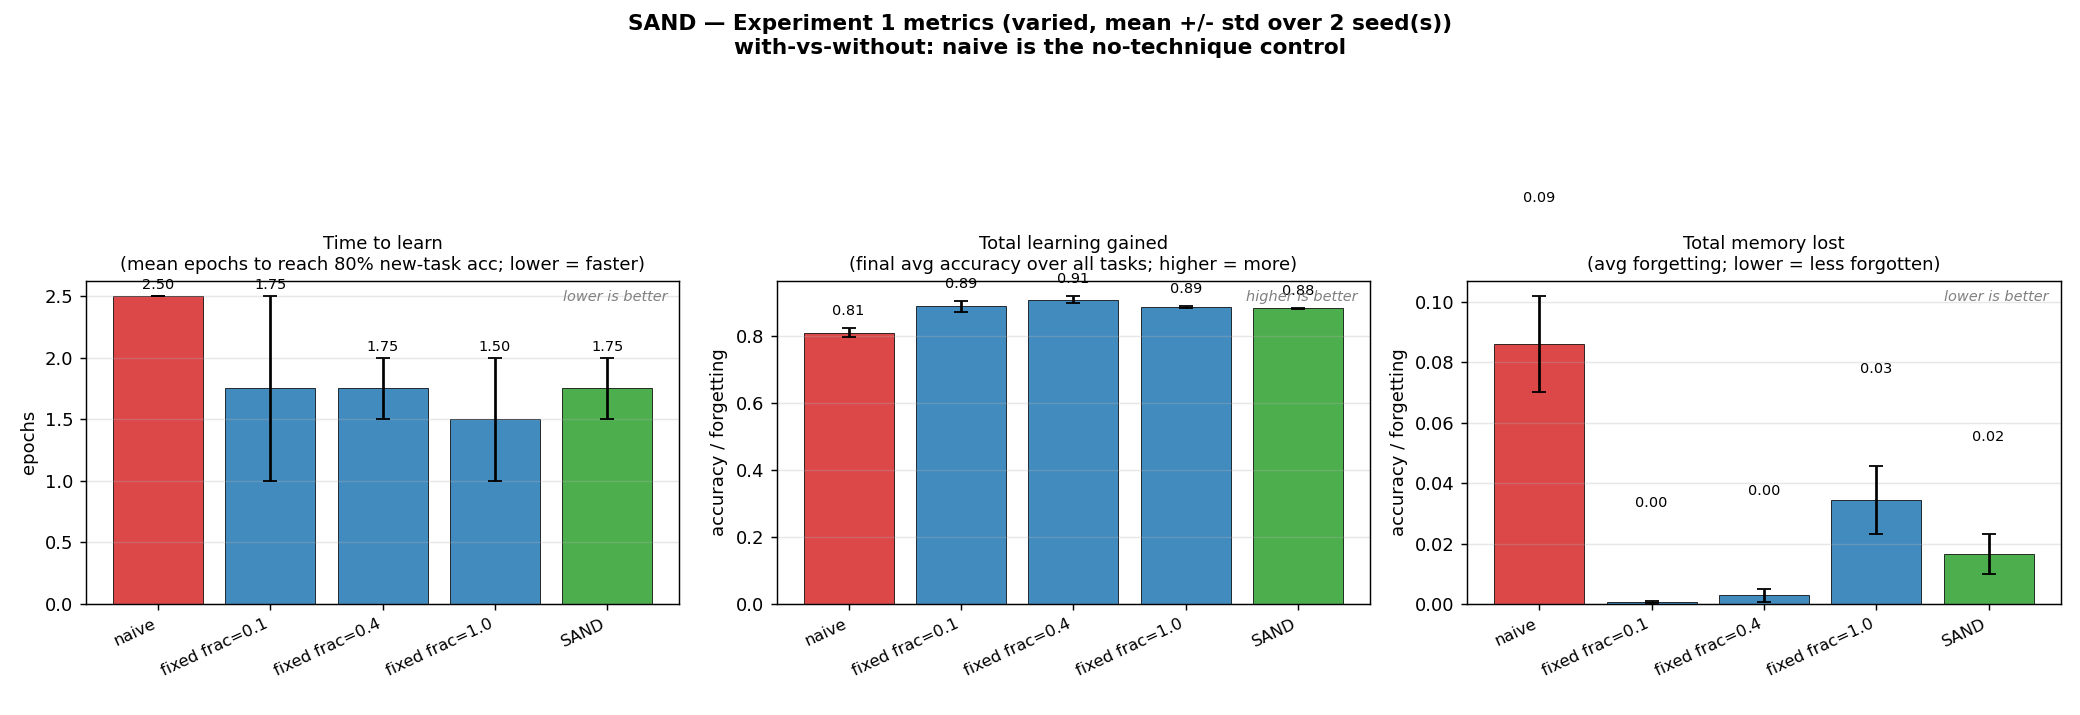
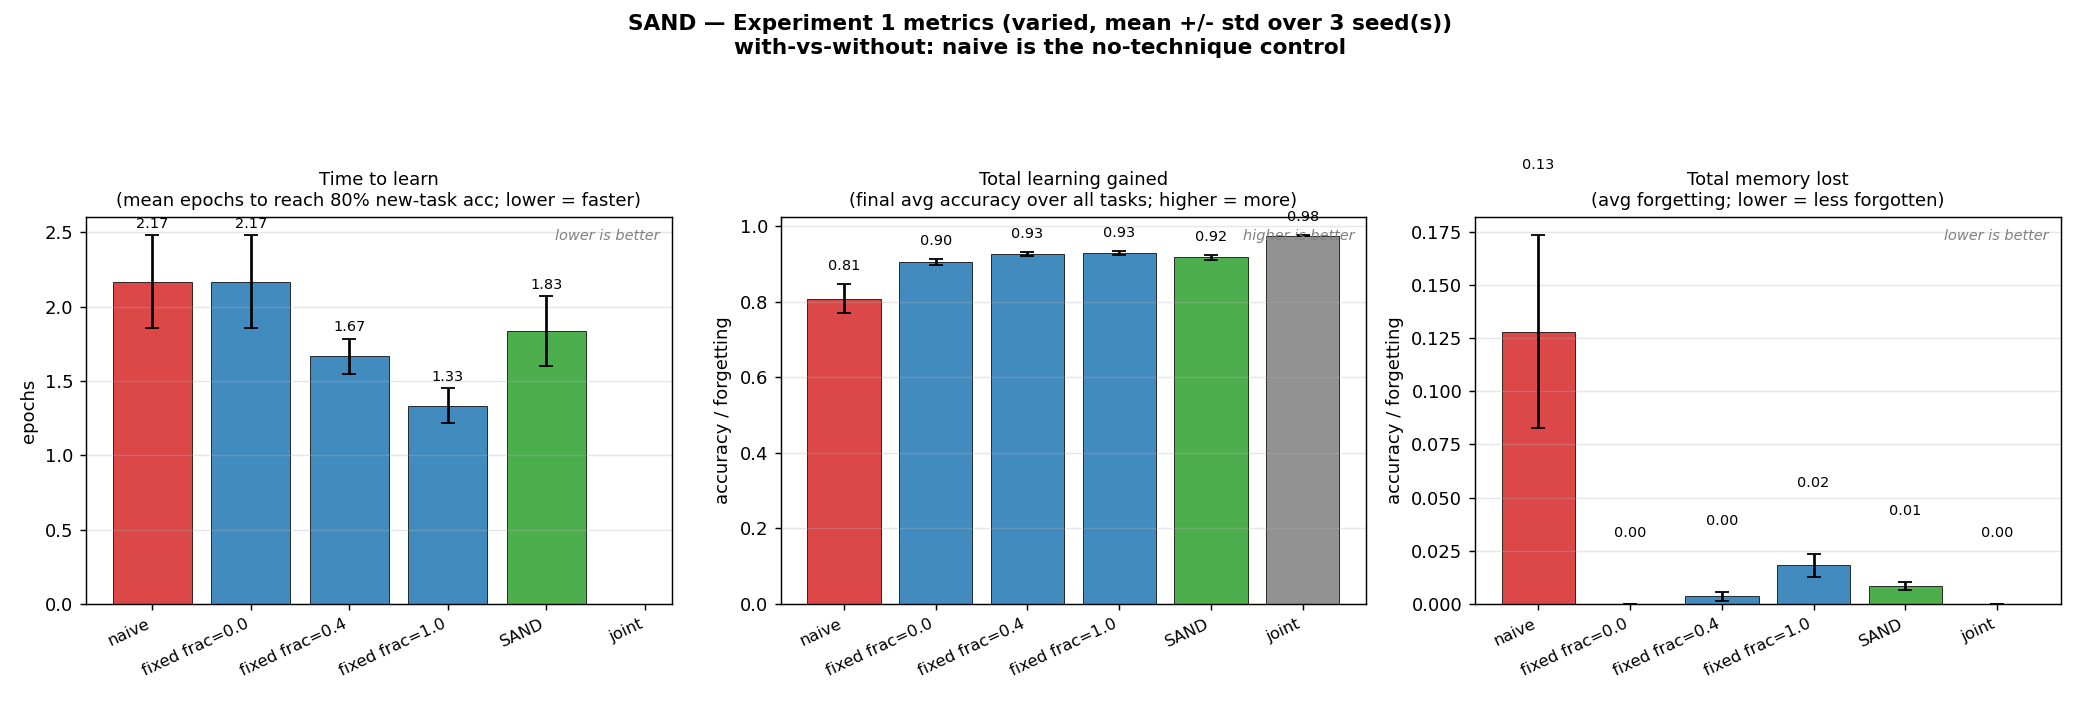
README: embed all three Experiment 1 visualizations
- result-exp-1.png       : summary (avg accuracy over tasks + final bars)
- result-exp-1-curves.png: per-epoch learning curves (learn vs forget over time)
- result-exp-1-metrics.png: time-to-learn / total-learning / total-memory-lost bars

Each image has a short caption explaining what to read. Also refreshed the
committed plot images to the latest runs.

diff --git a/README.md b/README.md
@@ -97,19 +97,42 @@ report mean ± std so the result isn't a fluke.
 
 ## Result (Experiment 1, varied-MNIST, 3 seeds, fair compute)
 
-![Experiment 1 results](result-exp-1.png)
+### 1. Summary — average accuracy over tasks + final accuracy/forgetting
+
+![Experiment 1 summary](result-exp-1.png)
+
+*Left* — one line per approach = average accuracy over all tasks seen so far,
+vs the number of tasks trained (a method that forgets drops as tasks
+accumulate; SAND/joint stay high). *Right* — final average accuracy (↑ better)
+and average forgetting (↓ better) per condition; the dashed line is `avg fixed`
+= the fair no-lookahead bar.
+
+### 2. Learning curves over time — how fast it learns vs forgets, per epoch
+
+![Learning curves over time](result-exp-1-curves.png)
+
+Per-epoch accuracy as each task is trained. *Top row* = how fast each method
+learns the NEW task (curves rising = learning). *Bottom row* = how much it
+forgets the OLD tasks (curves dropping = forgetting). `naive` (no technique)
+is the control on the same axes — it learns fast but the bottom row craters
+(forgetting); SAND learns fast and the bottom row stays flat (no forgetting).
+
+### 3. Metrics — time to learn, total learning, total memory lost
+
+![Metrics: time to learn / total learning / total memory lost](result-exp-1-metrics.png)
+
+Three dedicated bar charts (mean ± std over seeds), each with the no-technique
+control (`naive`) on the same axes: *time to learn* (epochs to 80% new-task
+accuracy; lower = faster), *total learning gained* (final avg accuracy;
+higher = more), *total memory lost* (avg forgetting; lower = better).
+
+---
 
 SAND reliably beats a blindly-picked fixed direction-LR (the fair bar) and
 matches well-tuned fixed fractions — **without needing per-dataset
 hyperparameter tuning**, and with the lowest variance of any method. It does
 NOT clearly beat the best hindsight-tuned fixed fraction (expected — that
 baseline is tuned with full knowledge of all tasks).
-
-**Reading the plot:** *Left* — one line per approach = average accuracy over
-all tasks seen so far, vs the number of tasks trained (a method that forgets
-drops as tasks accumulate; SAND/joint stay high). *Right* — final average
-accuracy (↑ better) and average forgetting (↓ better) per condition; the
-dashed line is `avg fixed` = the fair no-lookahead bar.
 
 ## Run it
 
@@ -120,7 +143,9 @@ python3 -u run_experiment_1.py
 
 That runs varied-MNIST, shared head, hidden 32, 5 tasks, 4 epochs, 3 seeds,
 fixed fractions {0, 0.4, 1.0}, + naive + SAND + joint, and writes `exp1.log`
-+ `result-exp-1.png`.
+plus three plots: `result-exp-1.png` (summary), `result-exp-1-curves.png`
+(per-epoch learning curves), `result-exp-1-metrics.png` (time-to-learn /
+total-learning / total-memory-lost bars).
 
 Conditions: `naive` (forgetting baseline) · `fixed frac=…` (ablation) ·
 `SAND` (ours) · `joint` (ceiling).